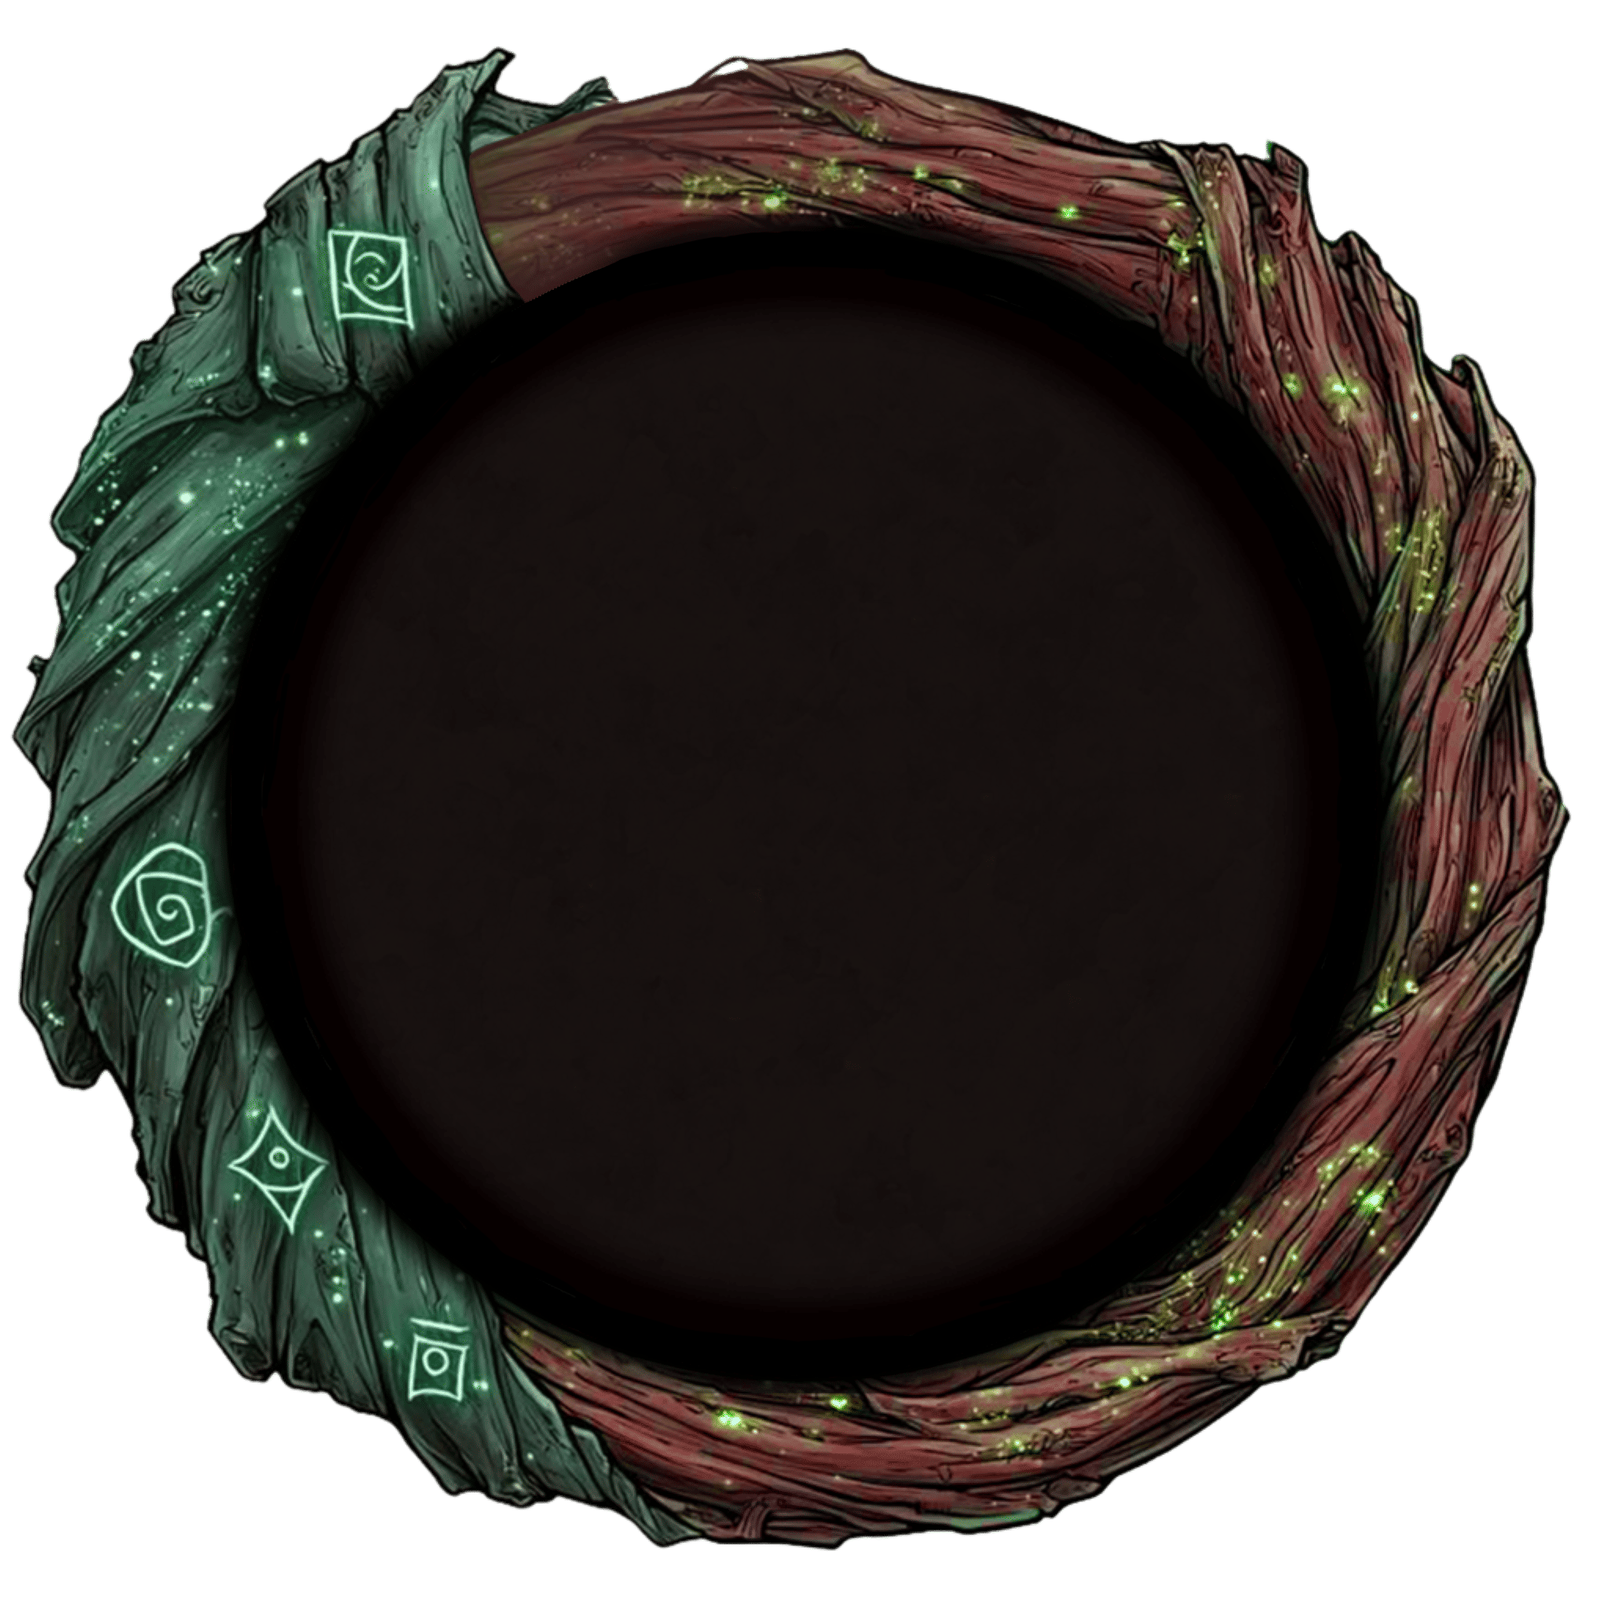
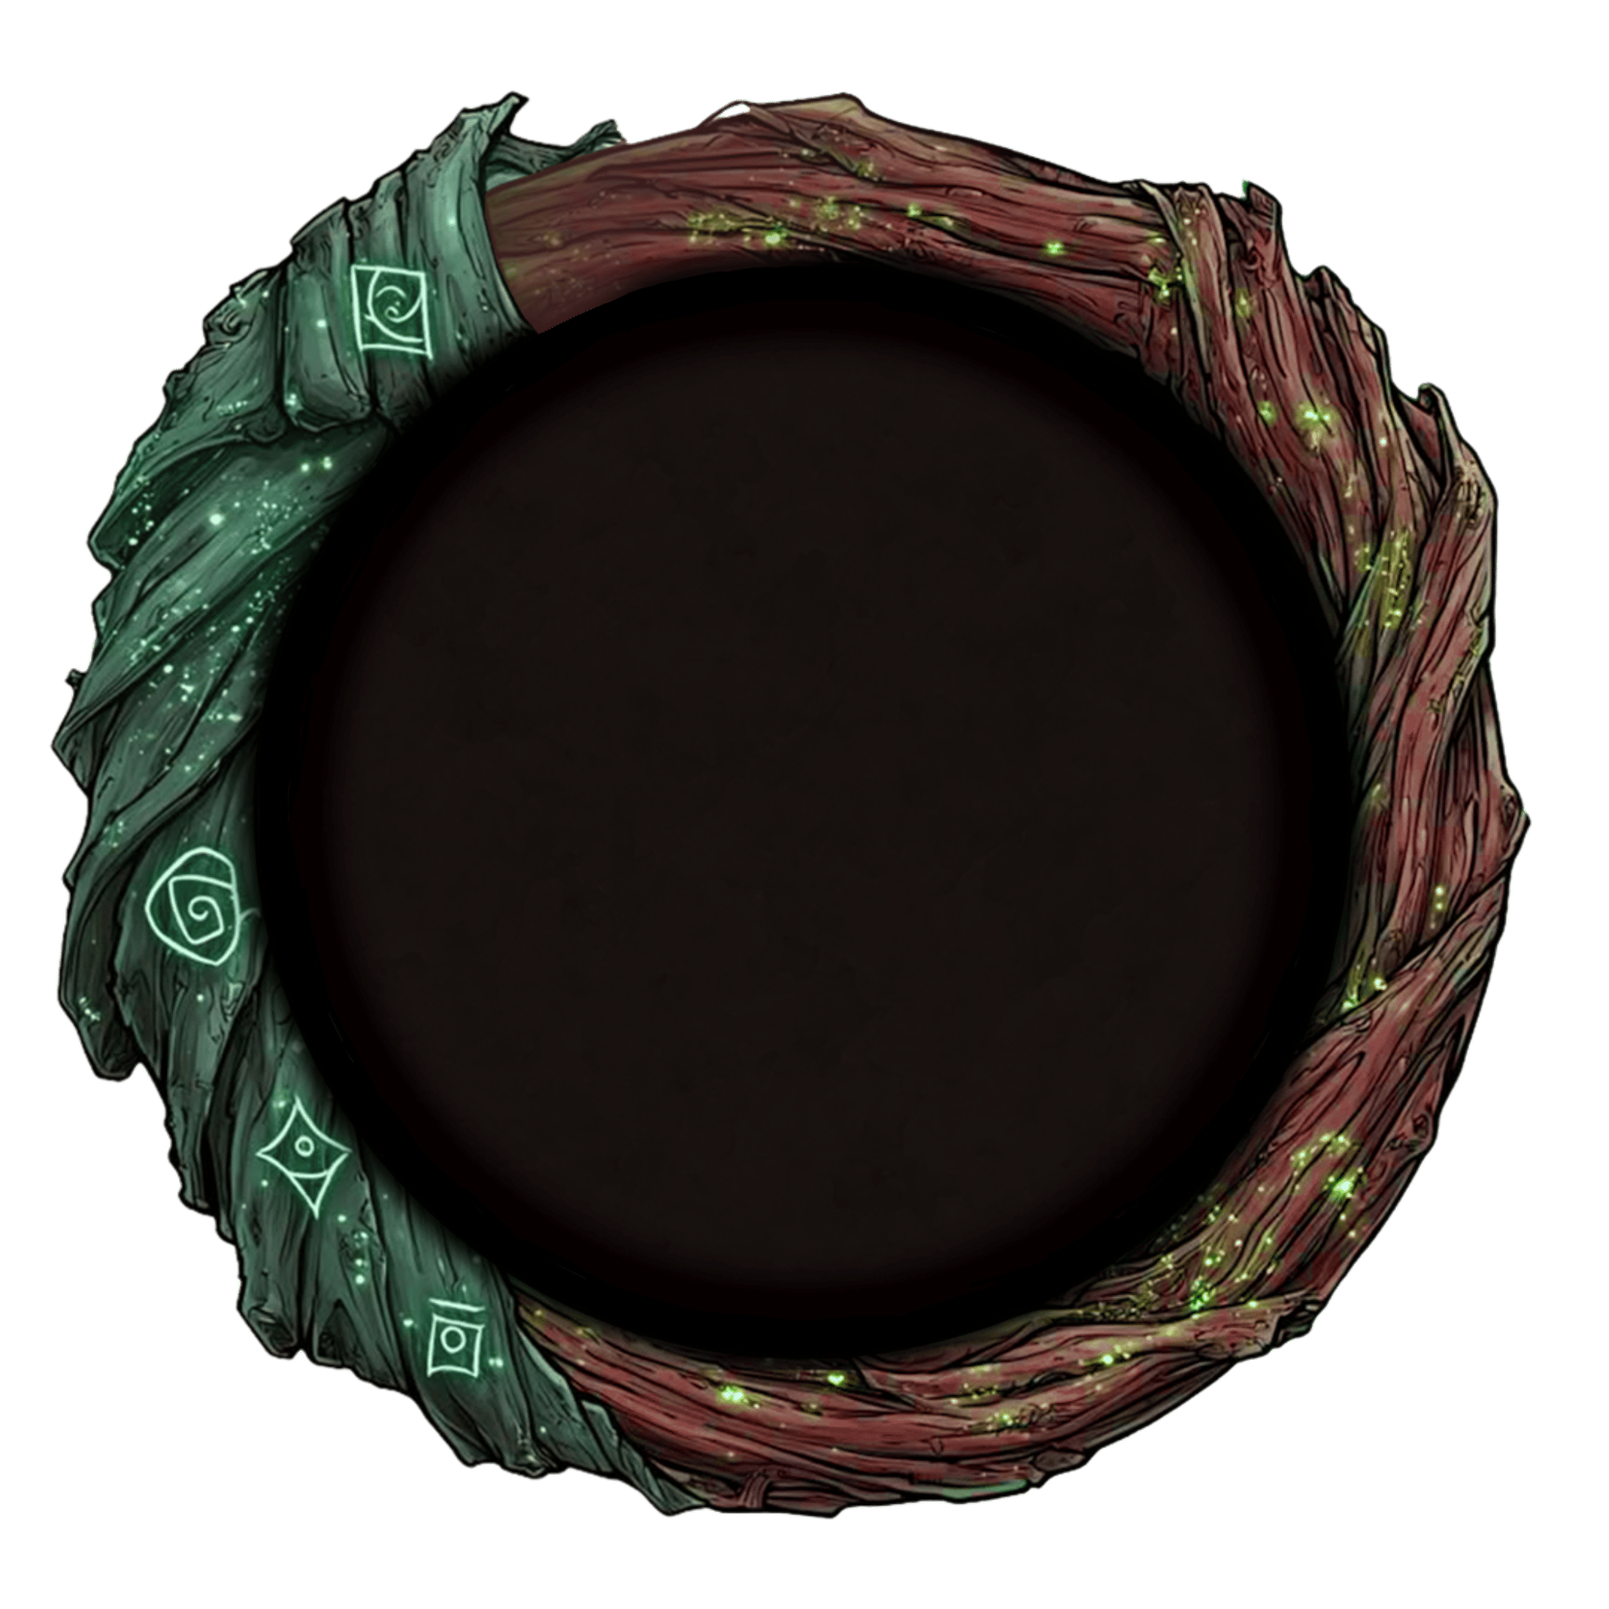
а

Changed region(s): [[0.0, 0.0312, 1.0, 0.9688]]

diff --git a/static/js/tokenPresets.js b/static/js/tokenPresets.js
@@ -2,12 +2,12 @@ const TokenPresets = {
     _presetOverlayTimer: null,
 
     buildProtectionCanvasFromImg(img, internalSize) {
-        // Маска — полноразмерный дизайн всего канваса (mask.png, напр. 6144×6144):
-        // растягиваем на весь рабочий канвас. Раньше маска центрировалась как
-        // кольцо (internalSize/3) и не совпадала с реальной областью изображения
-        // при экспорте 2×/3×.
+        // Защитная маска соответствует области кольца 1× (internalSize / 3),
+        // например 2048×2048 на рабочем холсте 6144×6144.
         const srcW = img.naturalWidth || img.width;
         const srcH = img.naturalHeight || img.height;
+        const maskSize = Math.round(internalSize / 3);
+        const maskOffset = (internalSize - maskSize) / 2;
 
         const scaledMask = document.createElement('canvas');
         scaledMask.width = internalSize;
@@ -15,7 +15,7 @@ const TokenPresets = {
         const sCtx = scaledMask.getContext('2d');
         sCtx.imageSmoothingEnabled = true;
         sCtx.imageSmoothingQuality = 'high';
-        sCtx.drawImage(img, 0, 0, srcW, srcH, 0, 0, internalSize, internalSize);
+        sCtx.drawImage(img, 0, 0, srcW, srcH, maskOffset, maskOffset, maskSize, maskSize);
         const srcData = sCtx.getImageData(0, 0, internalSize, internalSize);
         const sd = srcData.data;
 
@@ -30,8 +30,7 @@ const TokenPresets = {
         for (let i = 0; i < n; i++) {
             const oi = i * 4;
             const a = sd[oi + 3];
-            const brightness = (sd[oi] + sd[oi+1] + sd[oi+2]) / 3;
-            const isProtected = a > 16 && brightness < 220;
+            const isProtected = a > 0;
             pd[oi] = 255; pd[oi+1] = 255; pd[oi+2] = 255;
             pd[oi+3] = isProtected ? 255 : 0;
         }
@@ -62,7 +61,7 @@ const TokenPresets = {
         return canvas;
     },
 
-    loadProtectionMask() {
+    loadProtectionMask(maskFile = state.activeRingMaskFile) {
         if (!state.protectionEnabled) {
             state.erasableCanvas = null;
             state.protectionMask = null;
@@ -70,16 +69,30 @@ const TokenPresets = {
             TokenCanvas.syncProtectionToWorker();
             return;
         }
+        const loadId = (this._protectionLoadId || 0) + 1;
+        this._protectionLoadId = loadId;
         urlManager.revoke('protection-mask');
-        fetch('/mask').then(r => r.blob()).then(blob => {
+        const source = maskFile
+            ? `/ring_file/${encodeURIComponent(maskFile)}`
+            : '/mask';
+        return fetch(source).then(r => {
+            if (!r.ok) throw new Error('Mask unavailable');
+            return r.blob();
+        }).then(blob => {
             const img = new Image();
             const maskUrl = urlManager.create(blob, 'protection-mask');
             img.onload = () => {
+                if (loadId !== this._protectionLoadId) return;
                 state._rawProtectionMaskImg = img;
                 this._rebuildErasableCanvas();
             };
             img.src = maskUrl;
         }).catch(() => {
+            if (loadId !== this._protectionLoadId) return;
+            if (maskFile) {
+                state.activeRingMaskFile = null;
+                return this.loadProtectionMask(null);
+            }
             state._rawProtectionMaskImg = null;
             this._rebuildErasableCanvas();
         });
@@ -316,6 +329,8 @@ const TokenPresets = {
                             }
                             if (item.classList.contains('active')) {
                                 state.ringImages = {};
+                                state.activeRingMaskFile = null;
+                                this.loadProtectionMask(null);
                                 TokenCanvas.render();
                             }
                             this.loadRings();
@@ -326,10 +341,10 @@ const TokenPresets = {
                     item.onclick = () => {
                         document.querySelectorAll('.ring-thumb').forEach(i => i.classList.remove('active'));
                         item.classList.add('active');
-                        this.loadSingleRing(ring.file);
+                        this.loadSingleRing(ring.file, ring.mask_file);
                     };
                     container.appendChild(item);
-                    if (index === 0) this.loadSingleRing(ring.file);
+                    if (index === 0) this.loadSingleRing(ring.file, ring.mask_file);
                 });
             })
             .catch(() => {});
@@ -388,20 +403,46 @@ const TokenPresets = {
         });
     },
 
-    loadSingleRing(filename) {
+    loadSingleRing(filename, maskFile = null) {
+        const loadId = (this._ringLoadId || 0) + 1;
+        this._ringLoadId = loadId;
+        this._protectionLoadId = (this._protectionLoadId || 0) + 1;
         urlManager.revoke('ring');
-        fetch(`/ring_file/${encodeURIComponent(filename)}`)
-            .then(r => r.blob())
-            .then(blob => {
-                const img = new Image();
-                const url = urlManager.create(blob, 'ring');
-                img.onload = () => {
-                    state.ringImages = { 2048: img, 1024: img, 512: img };
-                    TokenCanvas.render();
-                };
-                img.src = url;
+        urlManager.revoke('protection-mask');
+        const loadImage = (blob, urlId) => new Promise((resolve, reject) => {
+            const img = new Image();
+            img.onload = () => resolve(img);
+            img.onerror = reject;
+            img.src = urlManager.create(blob, urlId);
+        });
+        const ringRequest = fetch(`/ring_file/${encodeURIComponent(filename)}`)
+            .then(r => r.ok ? r.blob() : Promise.reject(new Error('Ring unavailable')));
+        const maskRequest = maskFile
+            ? fetch(`/ring_file/${encodeURIComponent(maskFile)}`)
+                .then(r => r.ok ? r.blob() : Promise.reject(new Error('Mask unavailable')))
+            : fetch('/mask').then(r => r.ok ? r.blob() : Promise.reject(new Error('Mask unavailable')));
+
+        Promise.all([ringRequest, maskRequest])
+            .then(([ringBlob, maskBlob]) => Promise.all([
+                loadImage(ringBlob, 'ring'),
+                loadImage(maskBlob, 'protection-mask')
+            ]))
+            .then(([ringImage, maskImage]) => {
+                if (loadId !== this._ringLoadId) return;
+                state.ringImages = { 2048: ringImage, 1024: ringImage, 512: ringImage };
+                state.activeRingMaskFile = maskFile;
+                state._rawProtectionMaskImg = maskImage;
+                if (state.protectionEnabled) {
+                    this._rebuildErasableCanvas();
+                } else {
+                    state.erasableCanvas = null;
+                    state.protectionMask = null;
+                }
+                TokenCanvas.render();
             })
-            .catch(() => {});
+            .catch(() => {
+                if (loadId === this._ringLoadId) toast('Не удалось загрузить кольцо или маску', true);
+            });
     },
 
     loadRingForSize(size) {

diff --git a/templates/index.html b/templates/index.html
@@ -680,6 +680,8 @@
         <form class="ring-form" id="addRingForm">
             <label class="ring-form-label" for="ringFileInput">Изображение кольца</label>
             <input class="ring-file-input" id="ringFileInput" name="ring" type="file" accept=".webp,.png,.jpg,.jpeg,image/webp,image/png,image/jpeg" required>
+            <label class="ring-form-label" for="ringMaskInput">Защитная маска <span>(необязательно, иначе используется стандартная mask.png)</span></label>
+            <input class="ring-file-input" id="ringMaskInput" name="mask" type="file" accept=".webp,.png,.jpg,.jpeg,image/webp,image/png,image/jpeg">
             <label class="ring-form-label" for="ringNameInput">Название <span>(необязательно)</span></label>
             <input class="ring-text-input" id="ringNameInput" name="name" type="text" maxlength="80" placeholder="Например, Серебряная окантовка">
             <div class="ring-form-actions">

diff --git a/static/js/tokenCanvas.js b/static/js/tokenCanvas.js
@@ -924,17 +924,6 @@ var TokenCanvas = {
             this.ctx.strokeStyle = activeScale === 3 ? 'rgba(100,255,140,1)' : 'rgba(100,255,140,0.25)';
             this.ctx.strokeRect(3, 3, size - 6, size - 6);
             this.ctx.restore();
-        } else {
-            this.ctx.save();
-            this.ctx.setLineDash([dashLen * 0.6, gapLen * 0.6]);
-            this.ctx.lineWidth = 3 * (size / s3);
-            var activeSize = Math.round(size * activeScale / 3);
-            var activeOff = (size - activeSize) / 2;
-            var accentColor = getComputedStyle(document.documentElement).getPropertyValue('--accent').trim() || '#ff9800';
-            this.ctx.strokeStyle = accentColor;
-            this.ctx.globalAlpha = 0.5;
-            this.ctx.strokeRect(activeOff, activeOff, activeSize, activeSize);
-            this.ctx.restore();
         }
 
         var overlay = $('canvasOverlay');

diff --git a/static/js/state.js b/static/js/state.js
@@ -12,6 +12,7 @@ var state = {
     imageFileList: [],
     imageFileIndex: -1,
     ringImages: {},
+    activeRingMaskFile: null,
     userImage: null,
     userImageUrl: null,
     userImageOriginal: null,

diff --git a/server.py b/server.py
@@ -100,7 +100,10 @@ def config_file():
 
 USER_DATA_DIR = _resolve_user_data_dir()
 MODELS_DIR = USER_DATA_DIR / "models"
-RING_DIR = BASE_DIR / "token_rings"
+# Встроенные кольца живут рядом с приложением (read-only в Program Files),
+# пользовательские — в LOCALAPPDATA (куда разрешена запись).
+BUILTIN_RING_DIR = BASE_DIR / "token_rings"
+RING_DIR = USER_DATA_DIR / "token_rings"
 MASK_PATH = BASE_DIR / "mask.png"
 
 # Встроенные кольца: имя файла (casefold) → отображаемое имя.
@@ -1472,9 +1475,9 @@ def ring():
     if size not in ('512', '1024', '2048'):
         size = '1024'
     ring_files = {
-        '512': RING_DIR / 'token512.webp',
-        '1024': RING_DIR / 'token1024.webp',
-        '2048': RING_DIR / 'token2048.webp'
+        '512': BUILTIN_RING_DIR / 'token512.webp',
+        '1024': BUILTIN_RING_DIR / 'token1024.webp',
+        '2048': BUILTIN_RING_DIR / 'token2048.webp'
     }
     ring_path = ring_files.get(size)
     if ring_path and ring_path.exists():
@@ -1636,28 +1639,74 @@ def convert_file():
         return jsonify({'error': 'Ошибка конвертации файла'}), 500
 
 
+def _migrate_legacy_rings():
+    """Пользовательские кольца из старого каталога (BASE_DIR/token_rings)
+    переносим в RING_DIR — в установленной сборке BASE_DIR в Program Files
+    недоступен для записи."""
+    if BUILTIN_RING_DIR == RING_DIR:
+        return
+    if not BUILTIN_RING_DIR.exists():
+        return
+    RING_DIR.mkdir(parents=True, exist_ok=True)
+    for f in BUILTIN_RING_DIR.iterdir():
+        if (not f.is_file() or f.suffix.lower() not in {'.webp', '.png', '.jpg', '.jpeg'}
+                or f.stem.casefold().endswith('.mask')):
+            continue
+        if f.name.casefold() in BUILTIN_RINGS:
+            continue
+        try:
+            dest = RING_DIR / f.name
+            if dest.exists():
+                continue
+            os.replace(str(f), str(dest))
+            for extension in {f.suffix.lower(), '.png', '.webp', '.jpg', '.jpeg'}:
+                legacy_mask = f.with_name(f'{f.stem}.mask{extension}')
+                migrated_mask = dest.with_name(legacy_mask.name)
+                if legacy_mask.is_file() and not migrated_mask.exists():
+                    os.replace(str(legacy_mask), str(migrated_mask))
+        except OSError:
+            continue
+
+
 @app.route('/rings_list')
 def rings_list():
     extensions = {'.webp', '.png', '.jpg', '.jpeg'}
-    if not RING_DIR.exists():
-        RING_DIR.mkdir(exist_ok=True)
+    _migrate_legacy_rings()
     ring_files = []
-    for f in RING_DIR.iterdir():
-        if f.is_file() and f.suffix.lower() in extensions:
-            try:
-                added_at = f.stat().st_ctime_ns
-            except OSError:
-                added_at = 0
-            ring_files.append((f.name.casefold() in BUILTIN_RINGS, added_at, f.name.casefold(), f))
+    seen_names = set()
+
+    def collect(source_dir, builtin):
+        if not source_dir.exists():
+            return
+        for f in source_dir.iterdir():
+            if f.is_file() and f.suffix.lower() in extensions and not f.stem.casefold().endswith('.mask'):
+                key = f.name.casefold()
+                if key in seen_names:
+                    continue
+                seen_names.add(key)
+                try:
+                    added_at = f.stat().st_ctime_ns
+                except OSError:
+                    added_at = 0
+                ring_files.append((builtin, added_at, key, f))
+
+    collect(BUILTIN_RING_DIR, True)
+    collect(RING_DIR, False)
 
     rings = []
     mime_map = {'.webp': 'image/webp', '.png': 'image/png', '.jpg': 'image/jpeg', '.jpeg': 'image/jpeg'}
     for is_builtin, added_at, _, f in sorted(ring_files, key=lambda item: (not item[0], item[1], item[2])):
+        mask_path = next((
+            f.with_name(f'{f.stem}.mask{extension}')
+            for extension in (f.suffix.lower(), '.png', '.webp', '.jpg', '.jpeg')
+            if f.with_name(f'{f.stem}.mask{extension}').is_file()
+        ), None)
         rings.append({
             'name': BUILTIN_RINGS.get(f.name.casefold(), f.stem),
             'file': f.name,
             'mime': mime_map.get(f.suffix.lower(), 'image/png'),
-            'builtin': is_builtin,
+            'builtin': f.name.casefold() in BUILTIN_RINGS,
+            'mask_file': mask_path.name if mask_path else None,
             'added_at': added_at,
         })
     return jsonify(rings)
@@ -1679,6 +1728,10 @@ def delete_ring():
 
     try:
         path.unlink()
+        for extension in {path.suffix.lower(), '.png', '.webp', '.jpg', '.jpeg'}:
+            mask_path = path.with_name(f'{path.stem}.mask{extension}')
+            if mask_path.exists() and mask_path.is_file():
+                mask_path.unlink()
     except Exception:
         app.logger.error('ring delete error', exc_info=True)
         return jsonify({'error': 'Не удалось удалить кольцо'}), 500
@@ -1689,6 +1742,7 @@ def delete_ring():
 def add_ring():
     """Сохранить пользовательское изображение кольца в папку приложения."""
     ring = request.files.get('ring')
+    mask = request.files.get('mask')
     if not ring or not ring.filename:
         return jsonify({'error': 'Выберите изображение кольца'}), 400
 
@@ -1703,6 +1757,19 @@ def add_ring():
         ring.stream.seek(0)
     except Exception:
         return jsonify({'error': 'Файл не является корректным изображением'}), 400
+
+    mask_extension = None
+    if mask and mask.filename:
+        mask_extension = Path(mask.filename).suffix.lower()
+        if mask_extension not in {'.webp', '.png', '.jpg', '.jpeg'}:
+            return jsonify({'error': 'Маска должна быть в формате WebP, PNG или JPG'}), 400
+        try:
+            mask.stream.seek(0)
+            with Image.open(mask.stream) as image:
+                image.verify()
+            mask.stream.seek(0)
+        except Exception:
+            return jsonify({'error': 'Файл маски не является корректным изображением'}), 400
 
     name = (request.form.get('name') or '').strip()
     stem = Path(name or ring.filename).stem
@@ -1719,7 +1786,14 @@ def add_ring():
 
     try:
         ring.save(str(target))
+        if mask and mask.filename:
+            mask.save(str(target.with_name(f'{target.stem}.mask{mask_extension}')))
     except Exception:
+        try:
+            if target.exists():
+                target.unlink()
+        except OSError:
+            pass
         app.logger.error('ring save error', exc_info=True)
         return jsonify({'error': 'Не удалось сохранить кольцо'}), 500
 
@@ -1730,6 +1804,8 @@ def add_ring():
 def ring_file(filename):
     safe = Path(filename).name
     path = RING_DIR / safe
+    if not path.exists() or not path.is_file():
+        path = BUILTIN_RING_DIR / safe
     if not path.exists() or not path.is_file():
         return jsonify({'error': 'Not found'}), 404
     ext = path.suffix.lower()

diff --git a/app.py b/app.py
@@ -314,7 +314,9 @@ def main():
         pass
 
     _register_context_menu()
-    start_background_tasks(delay=15)
+    # The on-disk throttle has no cached result to restore in a new process.
+    # Always perform one real check for each application session.
+    start_background_tasks(force=True, delay=15)
 
     flask_thread = threading.Thread(
         target=lambda: app.run(host='127.0.0.1', port=PORT, debug=False, threaded=True, use_reloader=False),
